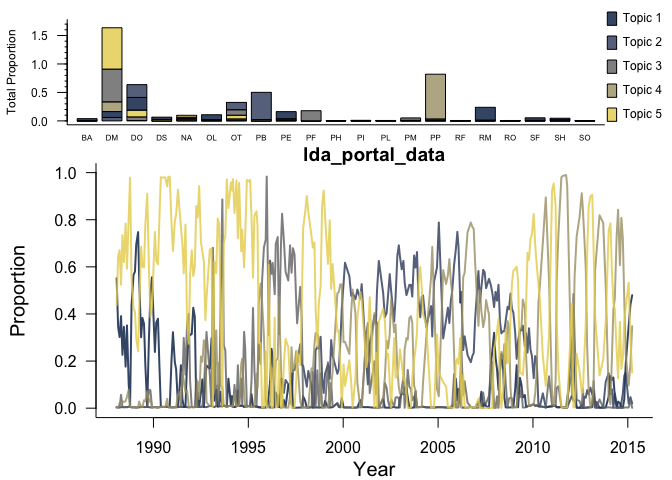
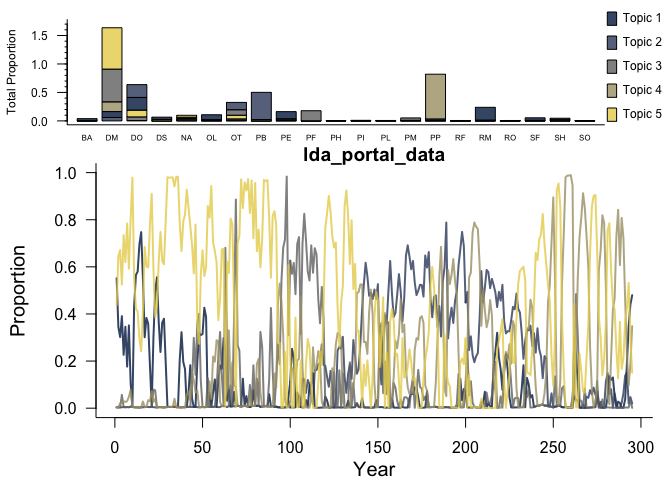
update package dependencies fix retriever data names simplify datasets plan update lda_report.md

diff --git a/lda_report.md b/lda_report.md
@@ -26,6 +26,18 @@ library(drake)
 
 ![](lda_report_files/figure-gfm/plot%20LDA-4.png)<!-- -->
 
+    ## [1] "lda_bbs_data"
+
+![](lda_report_files/figure-gfm/plot%20LDA-5.png)<!-- -->
+
+    ## [1] "lda_sdl_data"
+
+![](lda_report_files/figure-gfm/plot%20LDA-6.png)<!-- -->
+
+    ## [1] "lda_mtquad_data"
+
+![](lda_report_files/figure-gfm/plot%20LDA-7.png)<!-- -->
+
 ## Summarize LDA results
 
 ``` r
@@ -48,5 +60,8 @@ lda_summary
     ## 2   lda_maizuru_data       6          15        285
     ## 3   lda_jornada_data       6          17         24
     ## 4       lda_sgs_data       4          11         13
+    ## 5       lda_bbs_data       6         164      69564
+    ## 6       lda_sdl_data       6          98         22
+    ## 7    lda_mtquad_data       6          42         14
 
 ![](lda_report_files/figure-gfm/plot%20lda%20summary-1.png)<!-- -->![](lda_report_files/figure-gfm/plot%20lda%20summary-2.png)<!-- -->
